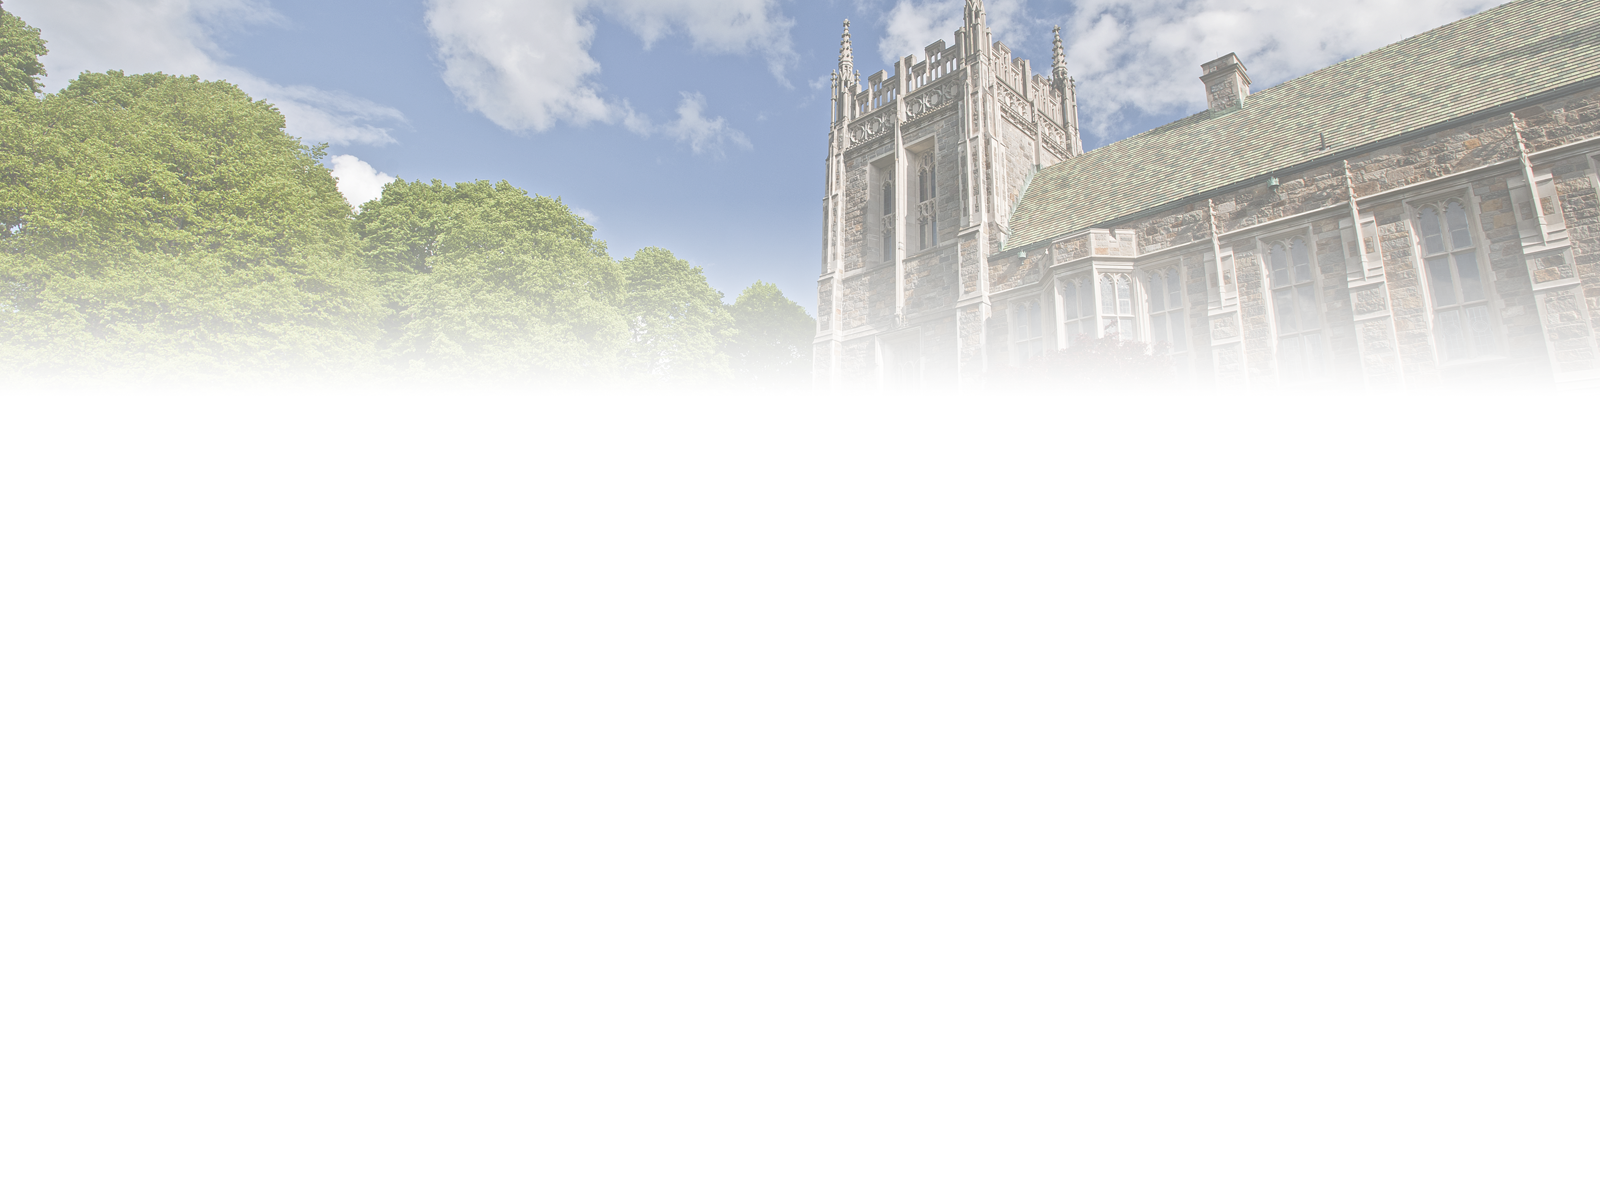
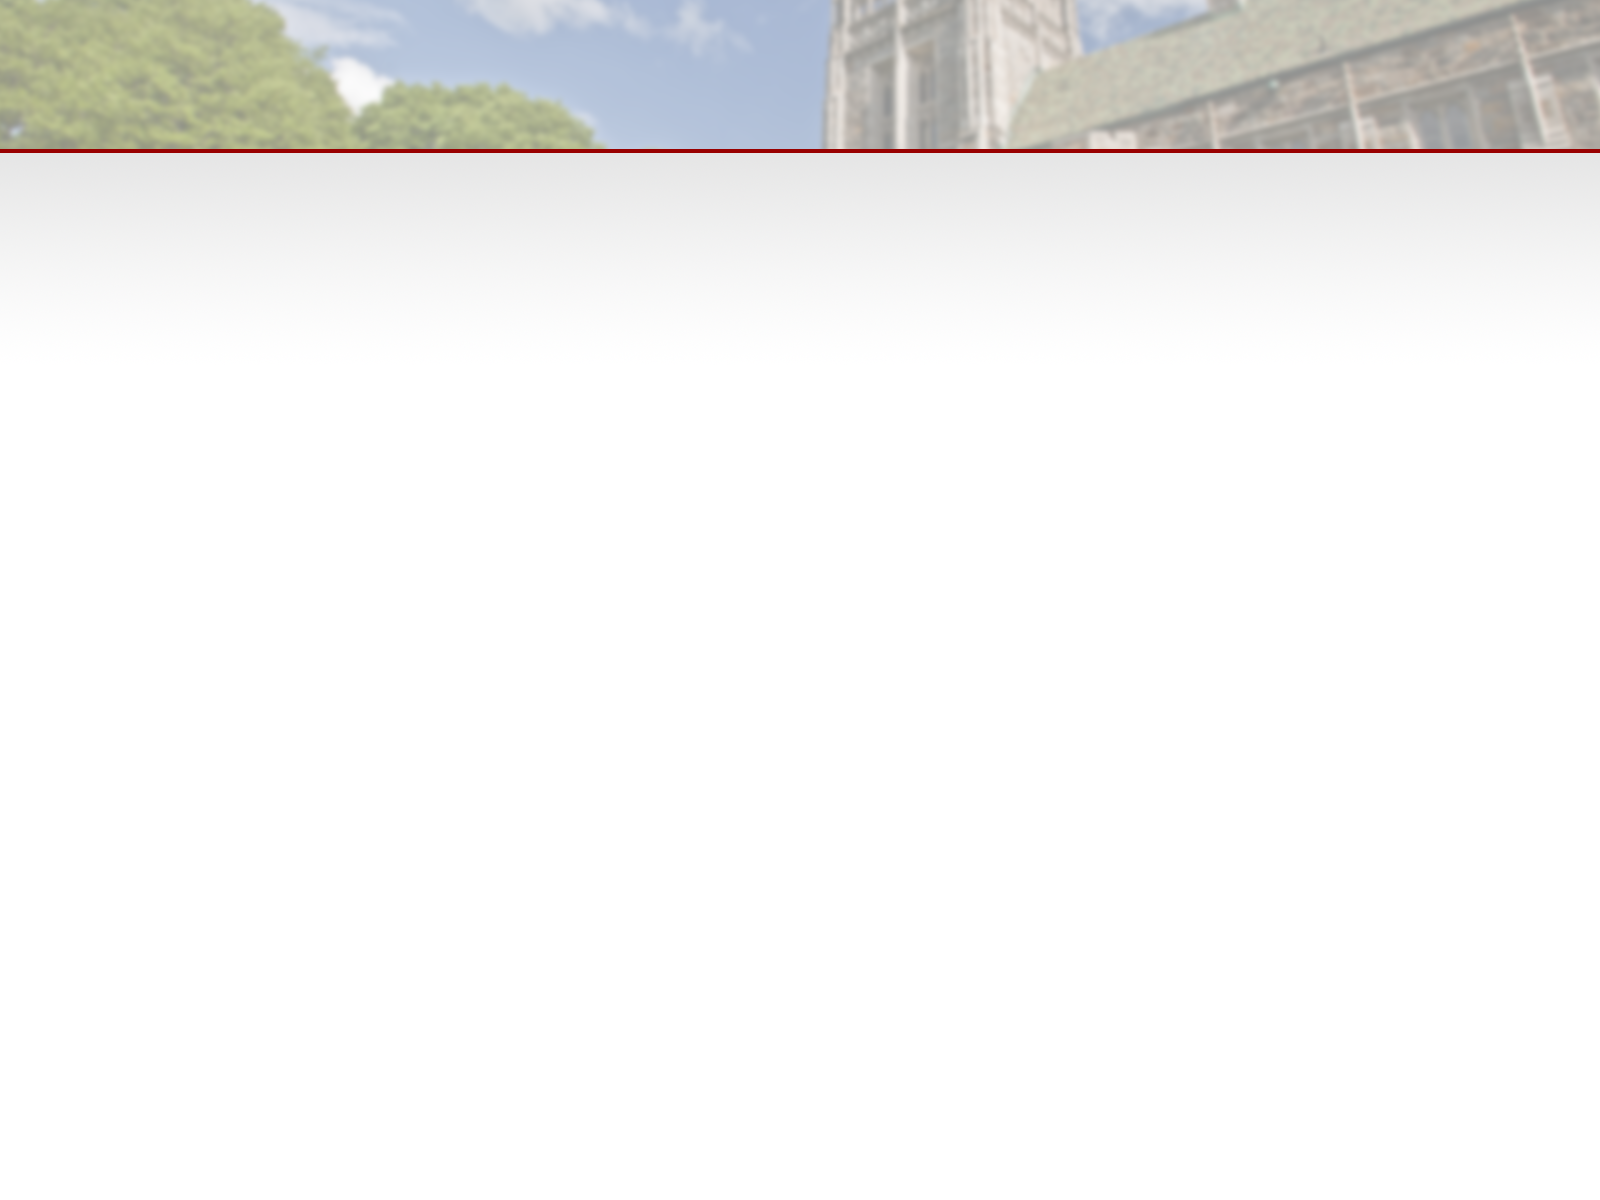
Updated, simpler header
I also removed some un-used images.

Changed region(s): [[0.0, 0.0, 1.0, 0.3083]]

diff --git a/themes/bc/static/css/style.css b/themes/bc/static/css/style.css
@@ -16,7 +16,7 @@ asapbold
 */
 
 body {
-    background: url("../img/backgrounds/bg_generic.png") no-repeat #fff 50% 50%;
+    background: url("../img/backgrounds/bg_generic.png") no-repeat #fff 0% 0%;
     background-size: cover;
     background-attachment: fixed;
     font-family: 'Asap', sans-serif;
@@ -138,7 +138,7 @@ img.center {
 #header {
     width: 1200px;
     height: 55px;
-    margin: 5px auto 0px;
+    margin: 0 auto;
     padding: 0;
     position: relative;
 }
@@ -237,6 +237,8 @@ img.center {
 #fullpagewrapper {
     width: 1236px;
     margin: 0 auto;
+    position: relative;
+    z-index: 100;
 }
 
 @media ( max-width: 1199px ) {
@@ -369,6 +371,8 @@ img.center {
 #lg_headertitle {
     clear: both;
     display: inline-block;
+    background: none repeat scroll 0 0 rgba(255, 255, 255, .4);
+    padding: 10px;
 }
 
 @media ( max-width: 1199px ) {
@@ -381,7 +385,7 @@ img.center {
 #lg_headertitle a {
     background: url("/theme/img/title_stacked.png") no-repeat;
     height: 70px;
-    width: 340px;
+    width: 240px;
     display: inline-block;
 }
 
